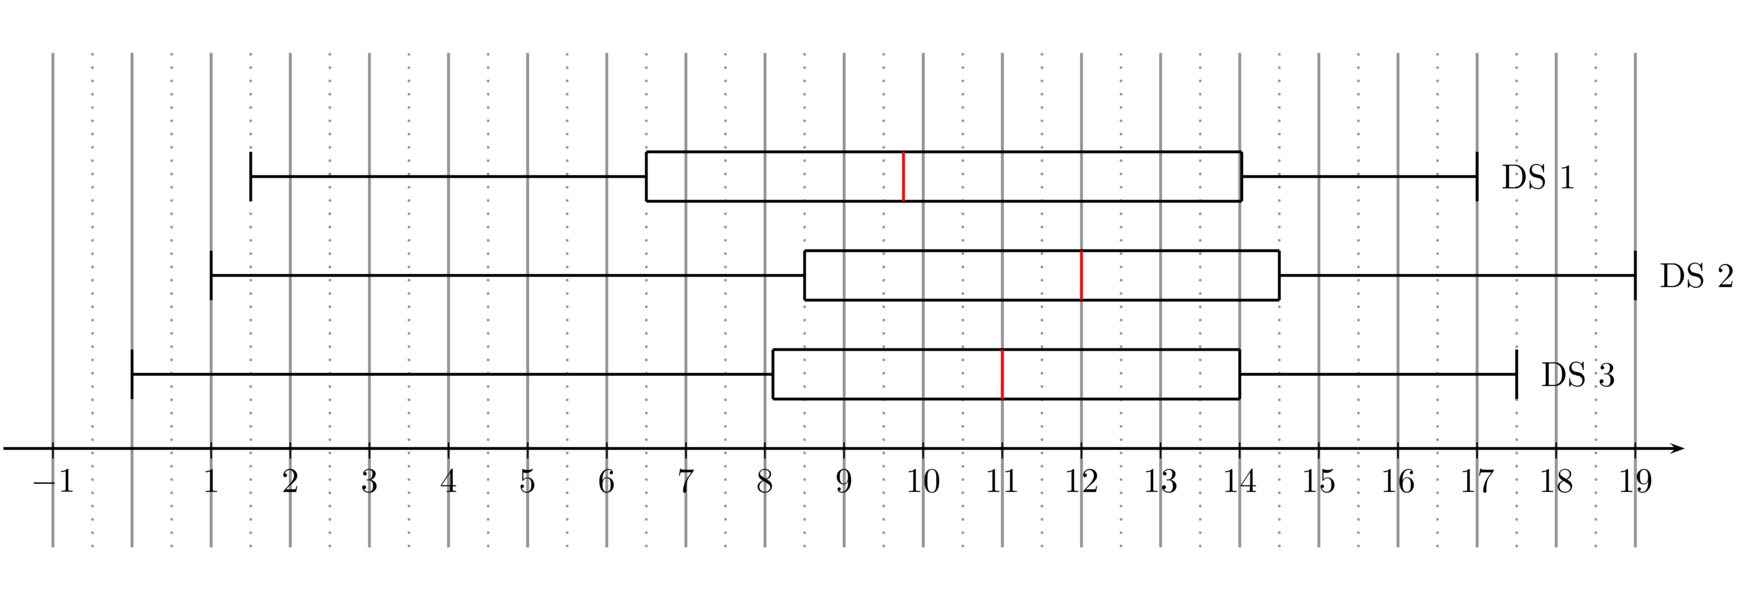
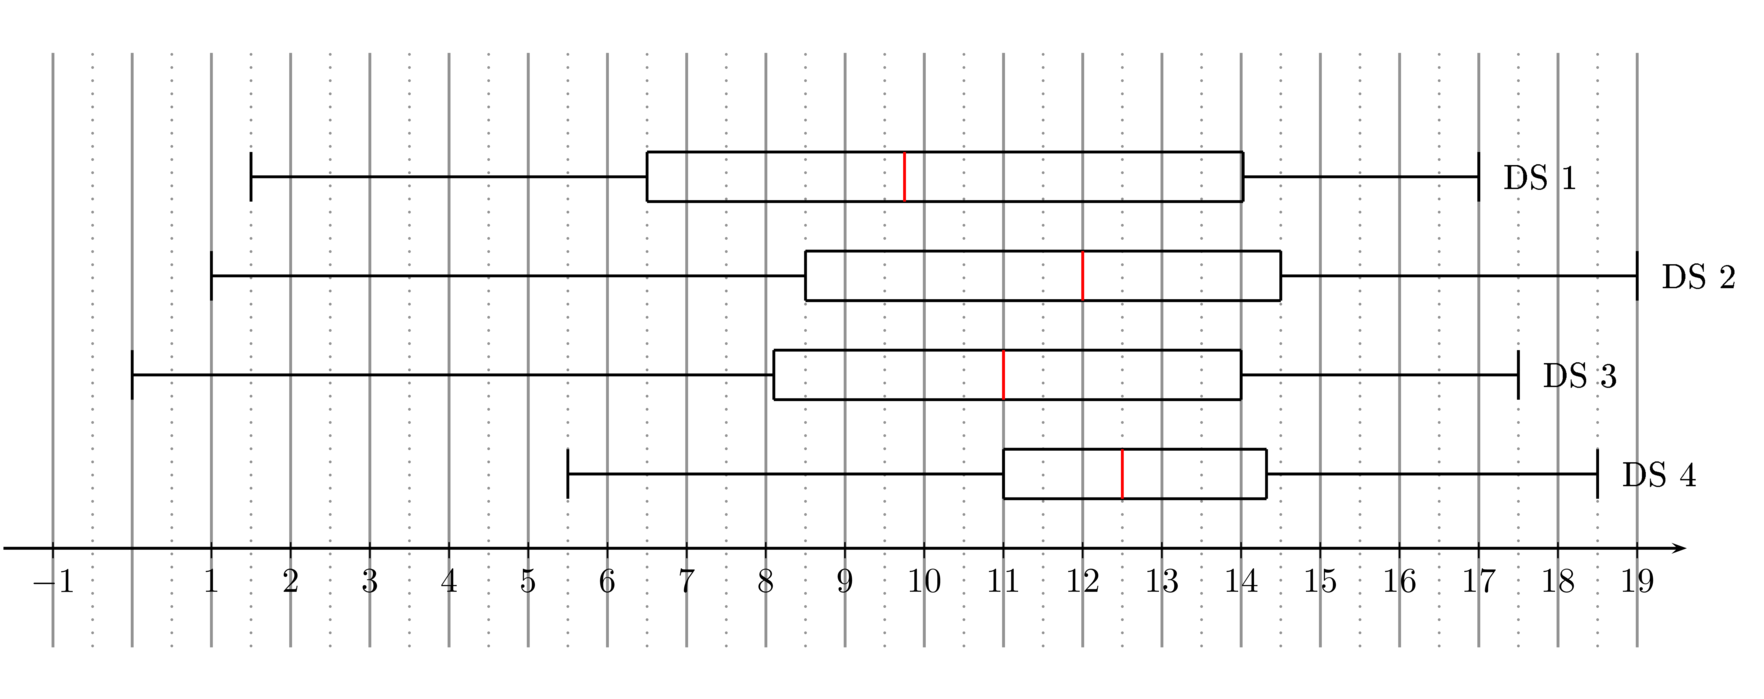
correction DS.

diff --git a/phystricksGSfDCyx.py b/phystricksGSfDCyx.py
@@ -5,15 +5,18 @@ def GSfDCyx():
     pspict.dilatation_X(0.8)
     pspict.dilatation_Y(1)
 
-    moustache_DS_D1=Moustache(1.5,6.5,9.75,14.025,17.0,h=0.5,delta_y=2.75)
-    moustache_DS_D2=Moustache(1.0,8.5,12.0,14.5,19.0,h=0.5,delta_y=1.75)
-    moustache_DS_D3=Moustache(0.0,8.1,11.0,14.0,17.5,h=0.5,delta_y=0.75)
+    moustaches=[]
 
-    moustache_DS_D1.put_mark(0.2,0,"DS 1",automatic_place=(pspict,"W"))
-    moustache_DS_D2.put_mark(0.2,0,"DS 2",automatic_place=(pspict,"W"))
-    moustache_DS_D3.put_mark(0.2,0,"DS 3",automatic_place=(pspict,"W"))
+    moustaches.append(Moustache(5.5,11.0,12.5,14.32,18.5,h=0.5,delta_y=0.75))      #DS4
+    moustaches.append(Moustache(0.0,8.1,11.0,14.0,17.5,h=0.5,delta_y=0.75))        #DS3
+    moustaches.append(Moustache(1.0,8.5,12.0,14.5,19.0,h=0.5,delta_y=1.75))        #DS2
+    moustaches.append(Moustache(1.5,6.5,9.75,14.025,17.0,h=0.5,delta_y=2.75))      #DS1
 
-    pspict.DrawGraphs(moustache_DS_D1,moustache_DS_D2,moustache_DS_D3)
+    for i,m in enumerate(moustaches) :
+        m.delta_y=0.75+i
+        m.put_mark(0.2,0,"DS {}".format( len(moustaches)-i ),automatic_place=(pspict,"W"))
+
+    pspict.DrawGraphs(moustaches)
     pspict.grid.draw_horizontal_grid=False
     pspict.axes.draw_single_axeY=False
     pspict.axes.single_axeY.no_graduation()

diff --git a/phystricksPEoyeQt.py b/phystricksPEoyeQt.py
@@ -5,15 +5,18 @@ def PEoyeQt():
     pspict.dilatation_X(0.8)
     pspict.dilatation_Y(1)
 
-    moustache_DS_A1=Moustache(2.5,6.5,8.5,11.5,17.0,h=0.5,delta_y=2.75)
-    moustache_DS_A2=Moustache(1.0,5.5,7,11.4,19.0,h=0.5,delta_y=1.75)
-    moustache_DS_A3=Moustache(3.0,5.6,7.5,10.9,15.5,h=0.5,delta_y=0.75)
+    moustaches=[]
 
-    moustache_DS_A1.put_mark(0.2,0,"DS 1",automatic_place=(pspict,"W"))
-    moustache_DS_A2.put_mark(0.2,0,"DS 2",automatic_place=(pspict,"W"))
-    moustache_DS_A3.put_mark(0.2,0,"DS 3",automatic_place=(pspict,"W"))
+    moustaches.append(Moustache(2.0,7.5,10.0,12.0,19.5,h=0.5,delta_y=0.75))     #DS4
+    moustaches.append(Moustache(3.0,5.6,7.5,10.9,15.5,h=0.5,delta_y=0.75))      #DS3
+    moustaches.append(Moustache(1.0,5.5,7,11.4,19.0,h=0.5,delta_y=1.75))        #DS2
+    moustaches.append(Moustache(2.5,6.5,8.5,11.5,17.0,h=0.5,delta_y=2.75))      #DS1
 
-    pspict.DrawGraphs(moustache_DS_A1,moustache_DS_A2,moustache_DS_A3)
+    for i,m in enumerate(moustaches) :
+        m.delta_y=0.75+i
+        m.put_mark(0.2,0,"DS {}".format( len(moustaches)-i ),automatic_place=(pspict,"W"))
+
+    pspict.DrawGraphs(moustaches)
     pspict.grid.draw_horizontal_grid=False
     pspict.axes.draw_single_axeY=False
     pspict.axes.single_axeY.no_graduation()

diff --git a/smath.tex b/smath.tex
@@ -55,6 +55,9 @@
 \chapter{Vecteurs}
 \input{0100_vecteurs}
 
+\chapter{Équations de droites}
+\input{0030_equations_droites}
+
 \chapter{Les feuilles toutes faites}
 \input{0090_tout_fait}
 
@@ -63,8 +66,6 @@
 \chapter{Autres choses sur les fonctions}
 \input{0050_resolution}
 
-\chapter{Équations de droites}
-\input{0030_equations_droites}
 
 \chapter{Vecteurs : colinéarité}
 \input{0110_smath}

diff --git a/0060_stat_descriptives.tex b/0060_stat_descriptives.tex
@@ -300,11 +300,12 @@ Consignes pour dessiner un histogramme :
 
 Voici quelque exemples de diagrammes en boîtes pour les DS.
 
+Pour une des secondes :
 \begin{center}
    \input{Fig_PEoyeQt.pstricks}
 \end{center}
 
-Et pour l'autre classe.
+Et pour l'autre :
 \begin{center}
    \input{Fig_GSfDCyx.pstricks}
 \end{center}

diff --git a/lst_Xactu.py b/lst_Xactu.py
@@ -7,4 +7,4 @@ import LaTeXparser.PytexTools
 myRequest = LaTeXparser.PytexTools.Request("seconde")
 myRequest.original_filename="smath.tex"
 
-myRequest.ok_filenames_list=["e_smath","0100_smath"]
+myRequest.ok_filenames_list=["e_smath","0060_stat_descriptives"]

diff --git a/autres_exercices.tex b/autres_exercices.tex
@@ -8,8 +8,6 @@
 \Exo{Seconde-0015}
 \Exo{Seconde-0074}
 
-\Exo{Seconde-0037}
-
 \begin{multicols}{2}
 \Exo{smath-0534}
 \Exo{smath-0012}
